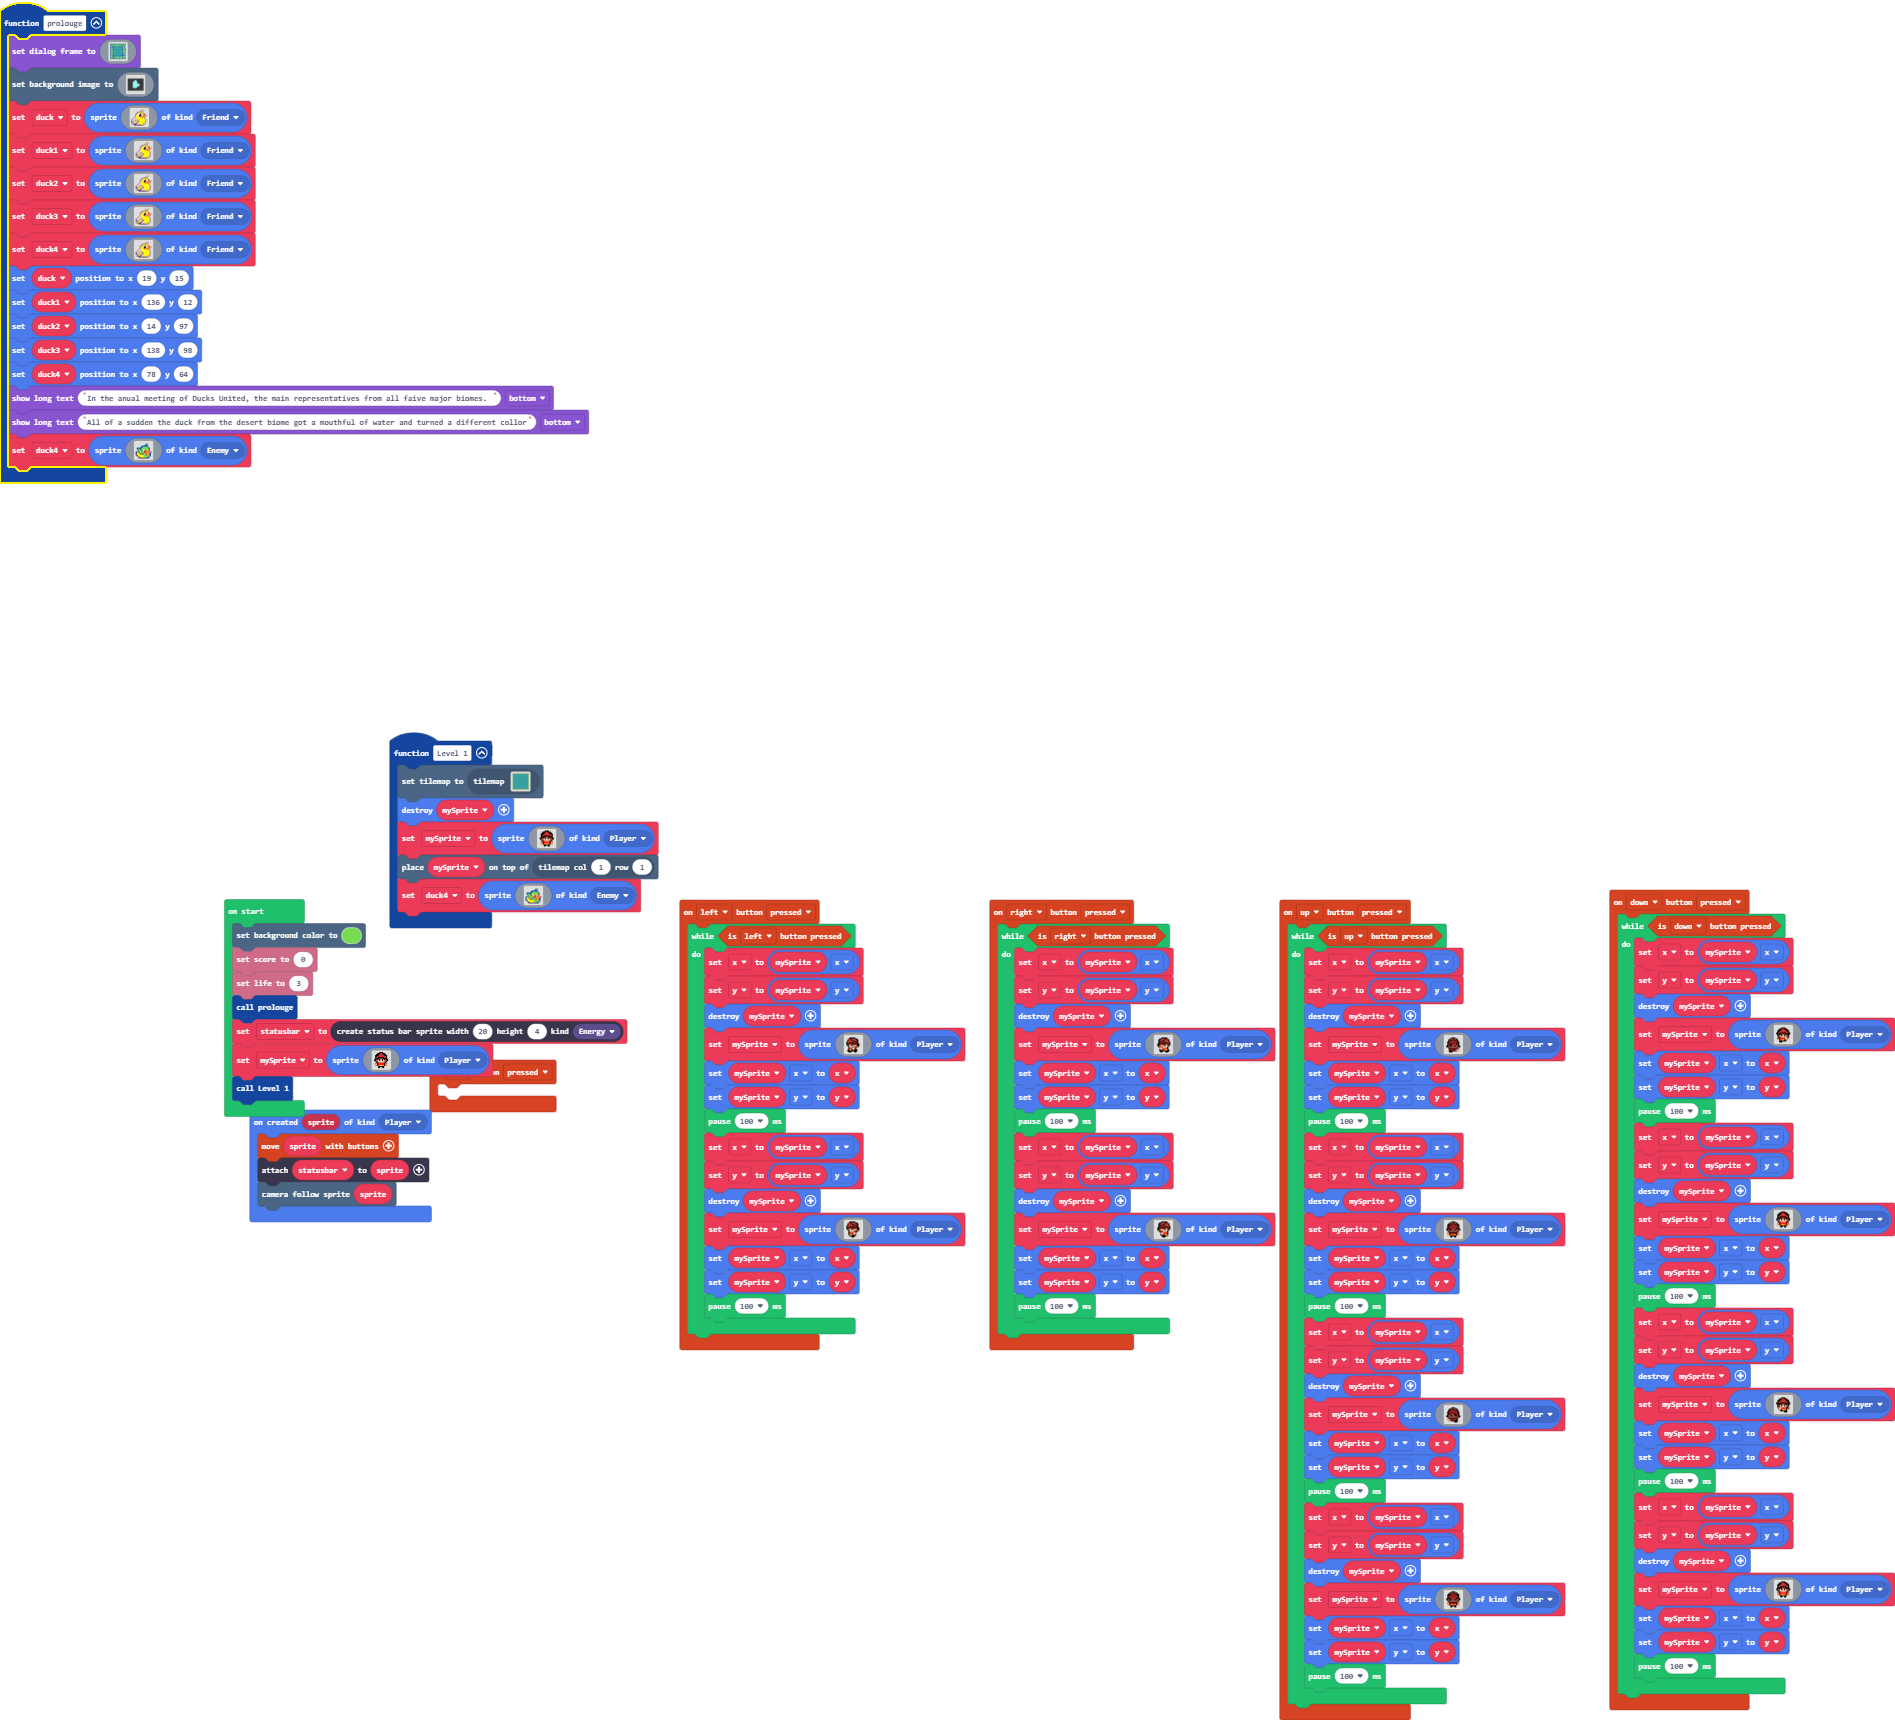
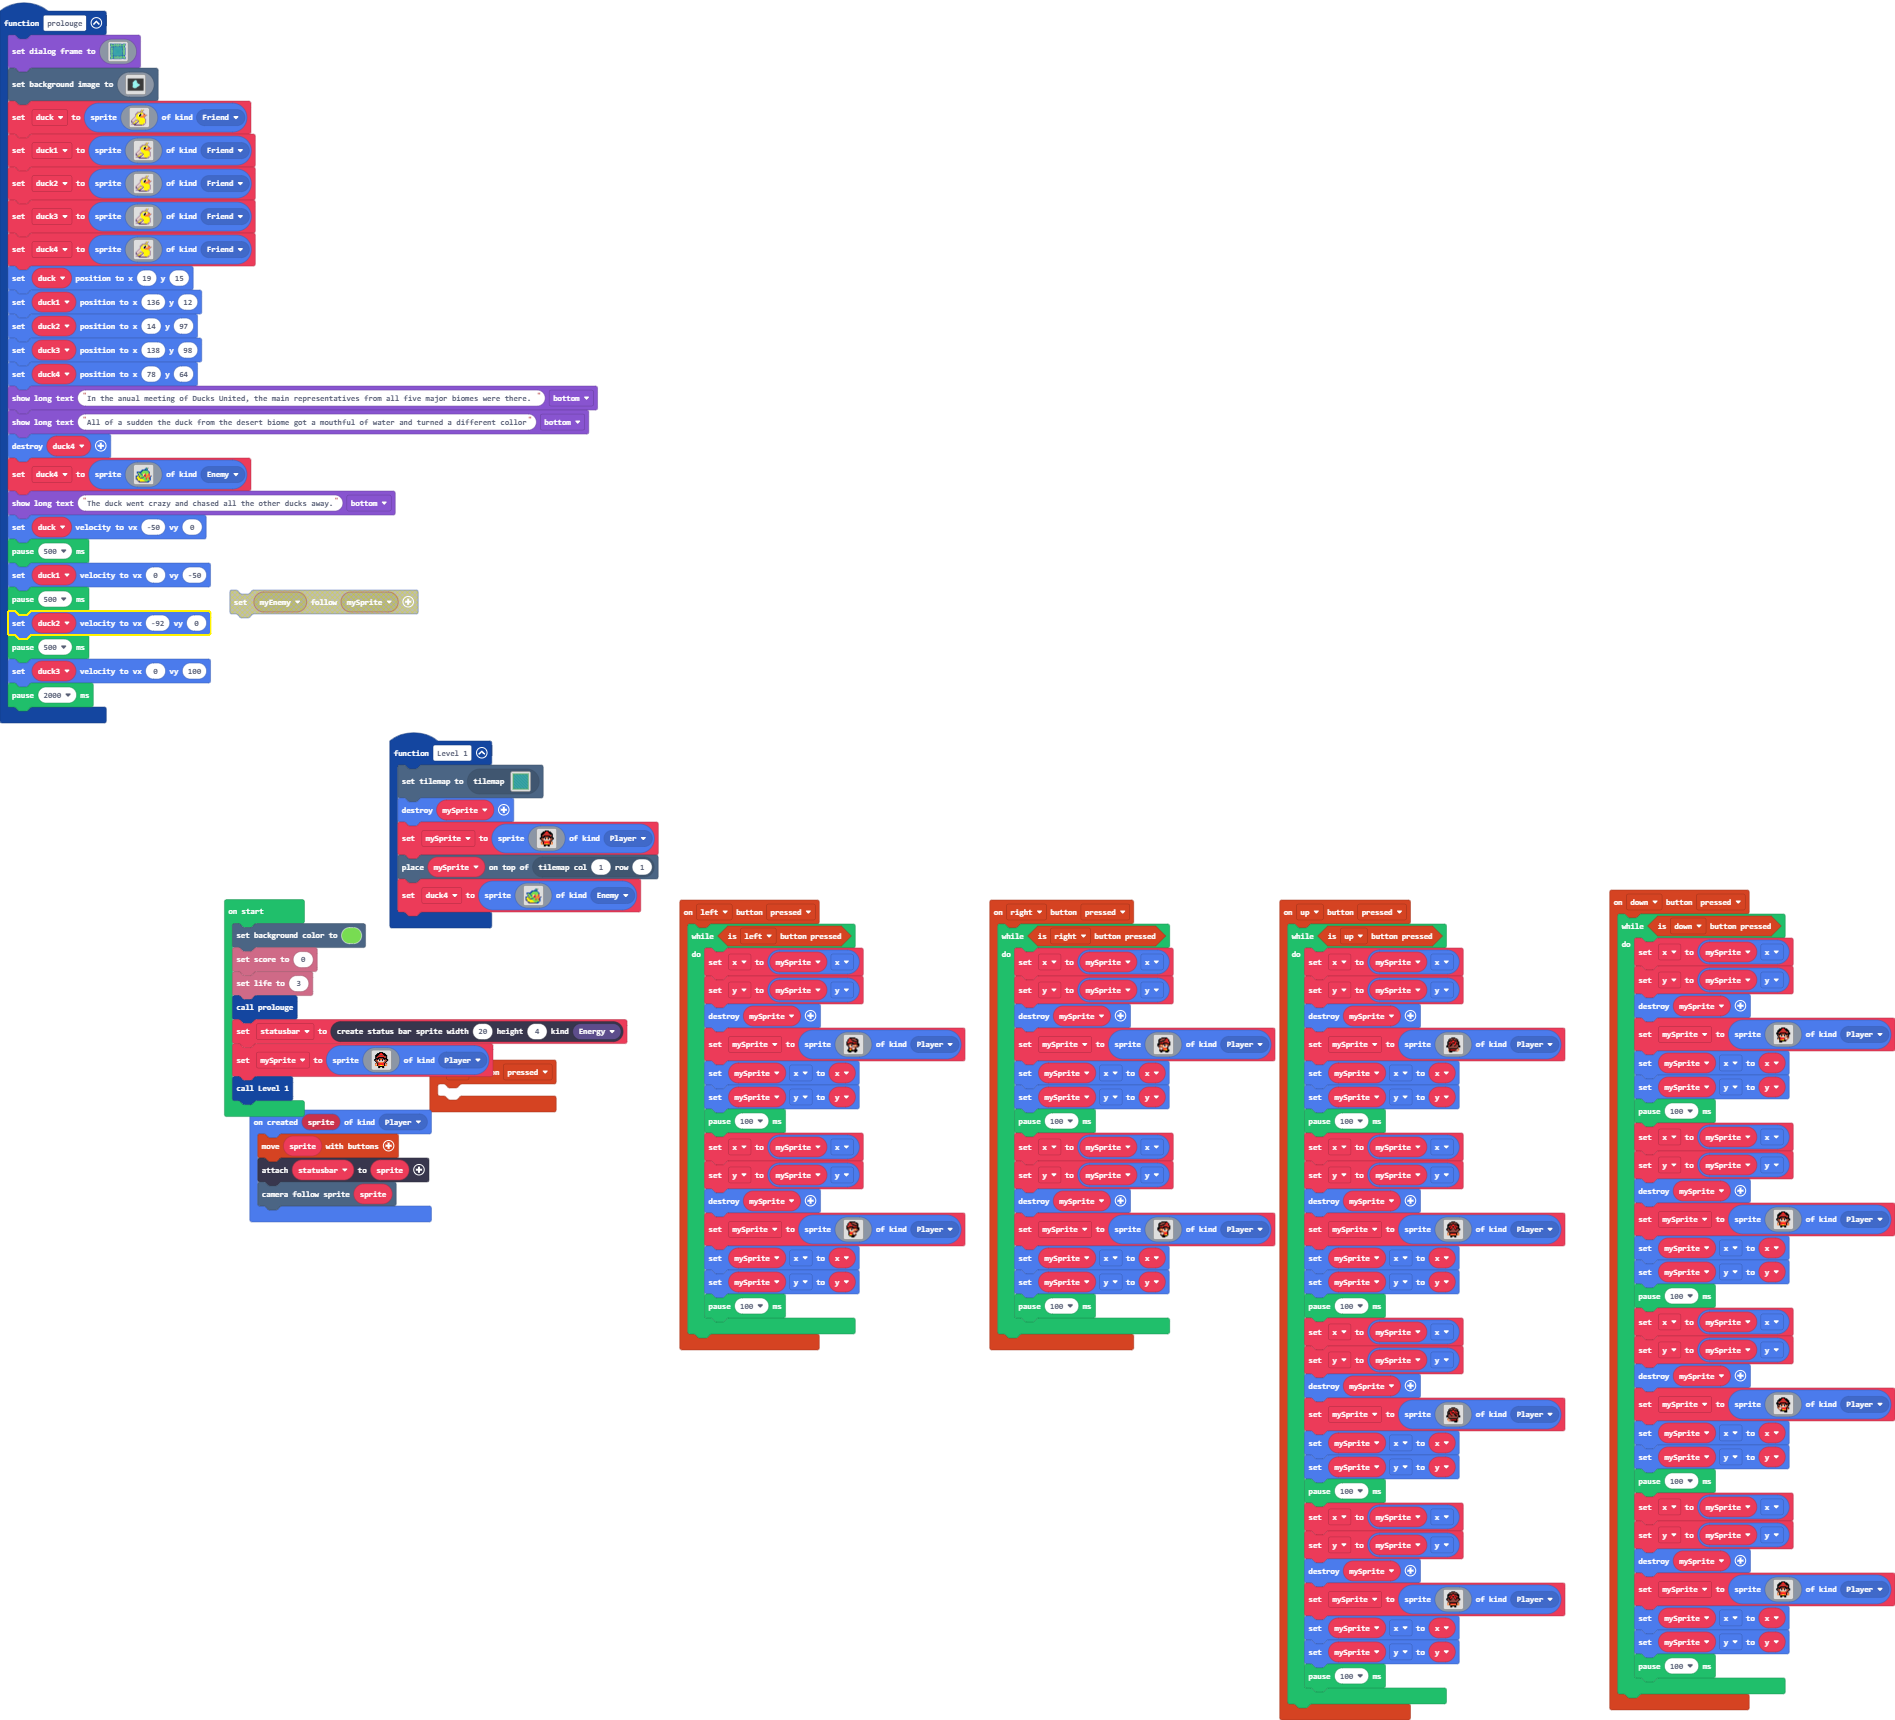
Update main.blocks, main.ts

Changed region(s): [[0.0, 0.2465, 0.2179, 0.4314], [0.2491, 0.2157, 0.3113, 0.2465]]

diff --git a/main.ts b/main.ts
@@ -409,8 +409,9 @@ function prolouge () {
     duck2.setPosition(14, 97)
     duck3.setPosition(138, 98)
     duck4.setPosition(78, 64)
-    game.showLongText("In the anual meeting of Ducks United, the main representatives from all faive major biomes. ", DialogLayout.Bottom)
+    game.showLongText("In the anual meeting of Ducks United, the main representatives from all five major biomes were there. ", DialogLayout.Bottom)
     game.showLongText("All of a sudden the duck from the desert biome got a mouthful of water and turned a different collor", DialogLayout.Bottom)
+    sprites.destroy(duck4)
     duck4 = sprites.create(img`
         . . . . . . . . . . . . . . . . 
         . . . . . . . . . . 8 7 b . . . 
@@ -429,6 +430,15 @@ function prolouge () {
         . . c 8 5 5 5 5 5 7 7 7 8 8 . . 
         . . . c c c c c c c c 8 8 . . . 
         `, SpriteKind.Enemy)
+    game.showLongText("The duck went crazy and chased all the other ducks away.", DialogLayout.Bottom)
+    duck.setVelocity(-50, 0)
+    pause(500)
+    duck1.setVelocity(0, -50)
+    pause(500)
+    duck2.setVelocity(-92, 0)
+    pause(500)
+    duck3.setVelocity(0, 100)
+    pause(2000)
 }
 function Level_1 () {
     tiles.setCurrentTilemap(tilemap`level4`)
